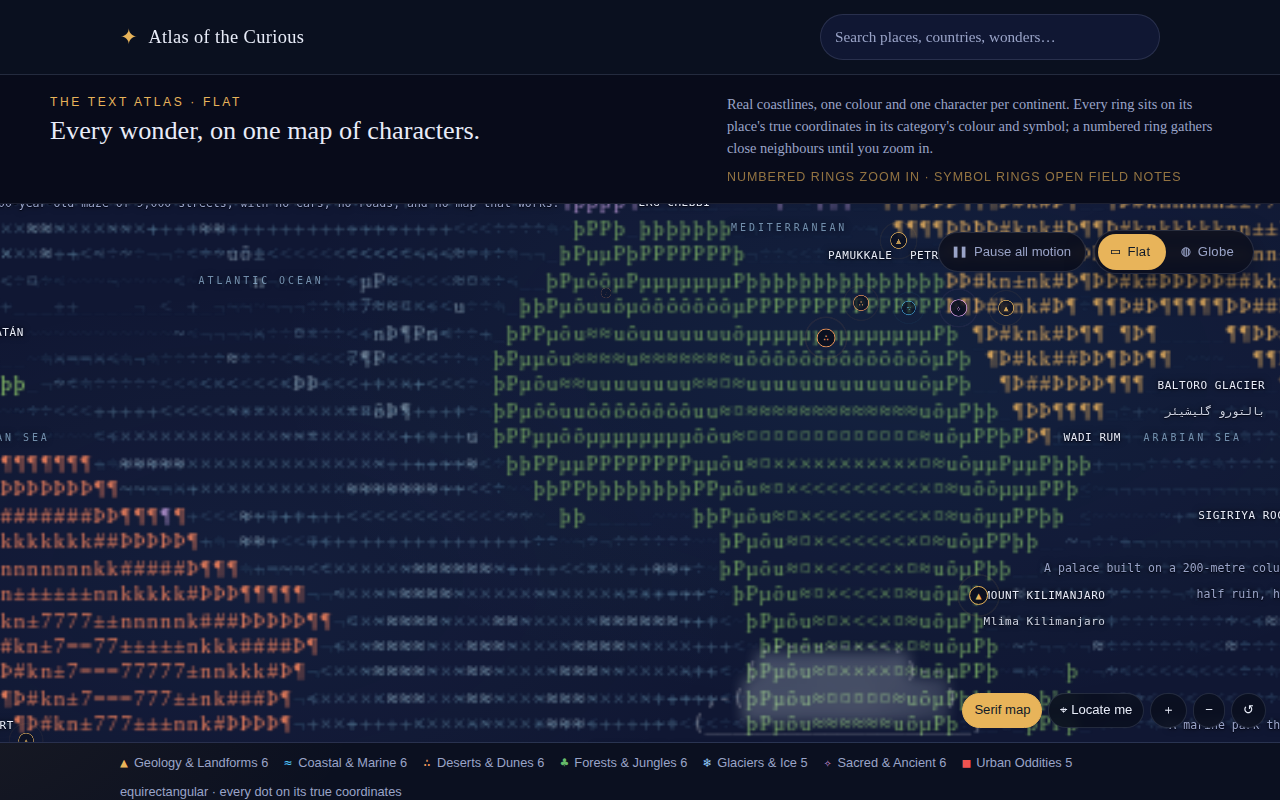
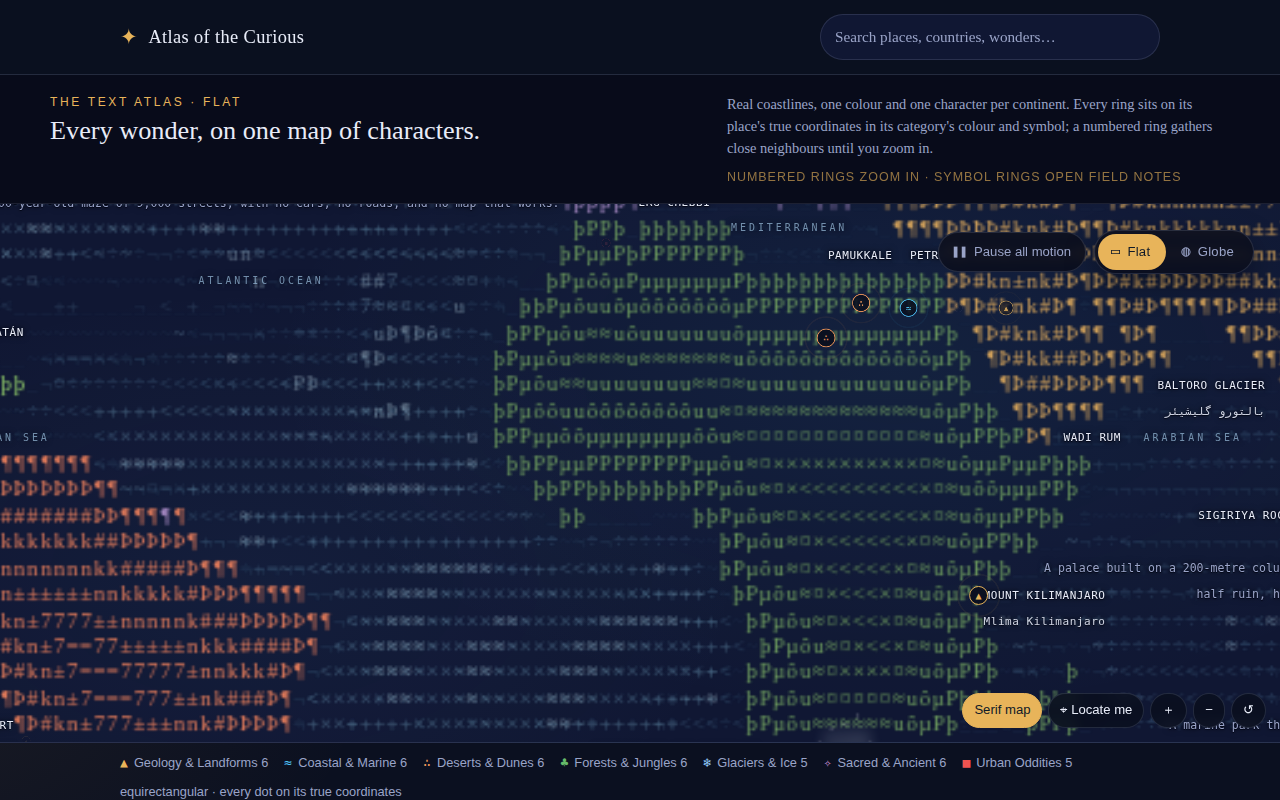
Address review round 15: keep closing notes, reduced motion, scroll offsets
- Closing a field note saves a note still inside its debounce before the
  place is forgotten (with a browser regression check).
- A final reduced-motion block outranks the hint pulse, marker entrance
  and ring animations declared after the original one.
- In-page jumps (List them, the skip link) land below the sticky header.
- The flat sea and clouds are quieter still.

diff --git a/css/style.css b/css/style.css
@@ -782,8 +782,8 @@ dialog::backdrop {
 }
 /* The sea and clouds sit a step behind the land and the dots, so the flat
    map has the same quiet ground as the globe beside it. */
-.map-sea:not(.map-clouds) { opacity: 0.62; }
-.map-clouds { opacity: 0.45; }
+.map-sea:not(.map-clouds) { opacity: 0.5; }
+.map-clouds { opacity: 0.32; }
 
 /* Crosshair: a subtle tracking reticle that follows the pointer. */
 .map-crosshair {
@@ -1748,3 +1748,18 @@ dialog::backdrop {
 
 .dialog-globe { display: inline-block; font: var(--font-card-link); line-height: var(--lh-card-link); color: var(--gold); margin: 0 0 8px; }
 .dialog-globe:hover { text-decoration: underline; }
+
+/* Reduced motion, last so it outranks every animation declared above
+   (the earlier block sits before some of them in source order). */
+@media (prefers-reduced-motion: reduce) {
+  .atlas-hint,
+  .map-marker,
+  .map-marker-ring,
+  .loading-glyph { animation: none; }
+  .map-user-ring { animation: none; opacity: 0; }
+}
+
+/* In-page jumps (List them, the skip link) land below the sticky header. */
+html { scroll-padding-top: 92px; }
+@media (max-width: 640px) { html { scroll-padding-top: 140px; } }
+

diff --git a/js/dialog.js b/js/dialog.js
@@ -1185,6 +1185,8 @@ function boot(win, doc) {
   function close() {
     stopStepAnimation();
     cancelReveal();
+    // Save a note still inside its debounce while its place is known.
+    flushNote();
     currentId = null;
     if (typeof dialog.close === "function") dialog.close();
     else dialog.removeAttribute("open");
